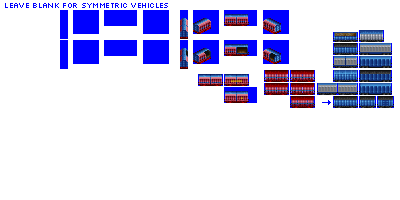
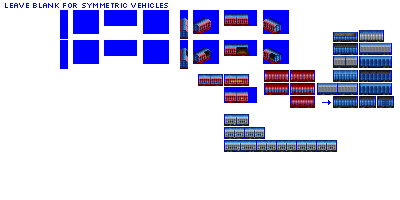
Change: stub in twin sliding wall van (sprites unfinished)

Changed region(s): [[0.54, 0.57, 0.84, 0.78]]

diff --git a/src/roster.py b/src/roster.py
@@ -42,9 +42,9 @@ class Roster(object):
                 wagon_consists = [wagon_consist for wagon_consist in self.wagon_consists[base_id]
                                   if wagon_consist.base_track_type == base_track_type]
                 result.extend(
-                    # note that we want the sort order to be U, A, B, C, so special handling
-                    # this *doesn*'t handle the case of changing _multiple_ times between U and A / B / C between generations
-                    sorted(wagon_consists, key=lambda wagon_consist: {"U": 1, "A": 2, "B": 3, "C": 4}[wagon_consist.subtype]))
+                    # note that we want the sort order to be U, A, B, C, D so special handling
+                    # this *doesn*'t handle the case of changing _multiple_ times between U and A / B / C / D between generations
+                    sorted(wagon_consists, key=lambda wagon_consist: {"U": 1, "A": 2, "B": 3, "C": 4, "D": 5}[wagon_consist.subtype]))
         for consist in result:
             # if consist won't pickle, then multiprocessing blows up, catching it here is faster and easier
             try:

diff --git a/src/vehicles/sliding_wall_cars.py b/src/vehicles/sliding_wall_cars.py
@@ -52,6 +52,23 @@ def main():
 
 
     consist = SlidingWallCarConsist(roster_id='pony',
+                            base_numeric_id=5190,
+                            gen=5,
+                            subtype='D',
+                            sprites_complete=False)
+
+    consist.add_unit(type=FreightCar,
+                     suppress_roof_sprite=True, # non-standard roof for this wagon
+                     chassis='2_axle_1cc_filled_20px',
+                     spriterow_num=0)
+
+    consist.add_unit(type=FreightCar,
+                     suppress_roof_sprite=True, # non-standard roof for this wagon
+                     chassis='2_axle_1cc_filled_20px',
+                     spriterow_num=2)
+
+
+    consist = SlidingWallCarConsist(roster_id='pony',
                             base_numeric_id=330,
                             gen=6,
                             subtype='B',

diff --git a/src/train.py b/src/train.py
@@ -1324,6 +1324,8 @@ class CarConsist(Consist):
             subtype_str = 'STR_NAME_SUFFIX_MEDIUM'
         elif self.subtype == 'C':
             subtype_str = 'STR_NAME_SUFFIX_LARGE'
+        elif self.subtype == 'D':
+            subtype_str = 'STR_NAME_SUFFIX_TWIN'
         return subtype_str
 
     @property
